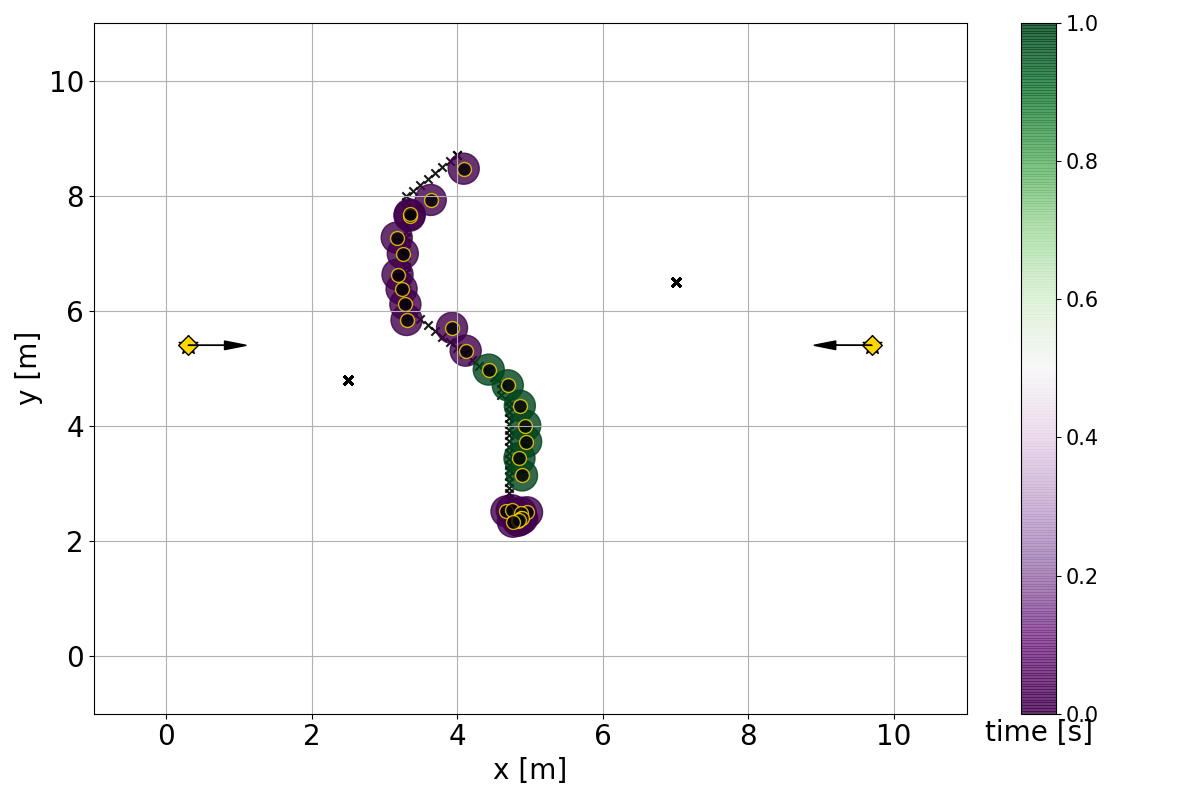
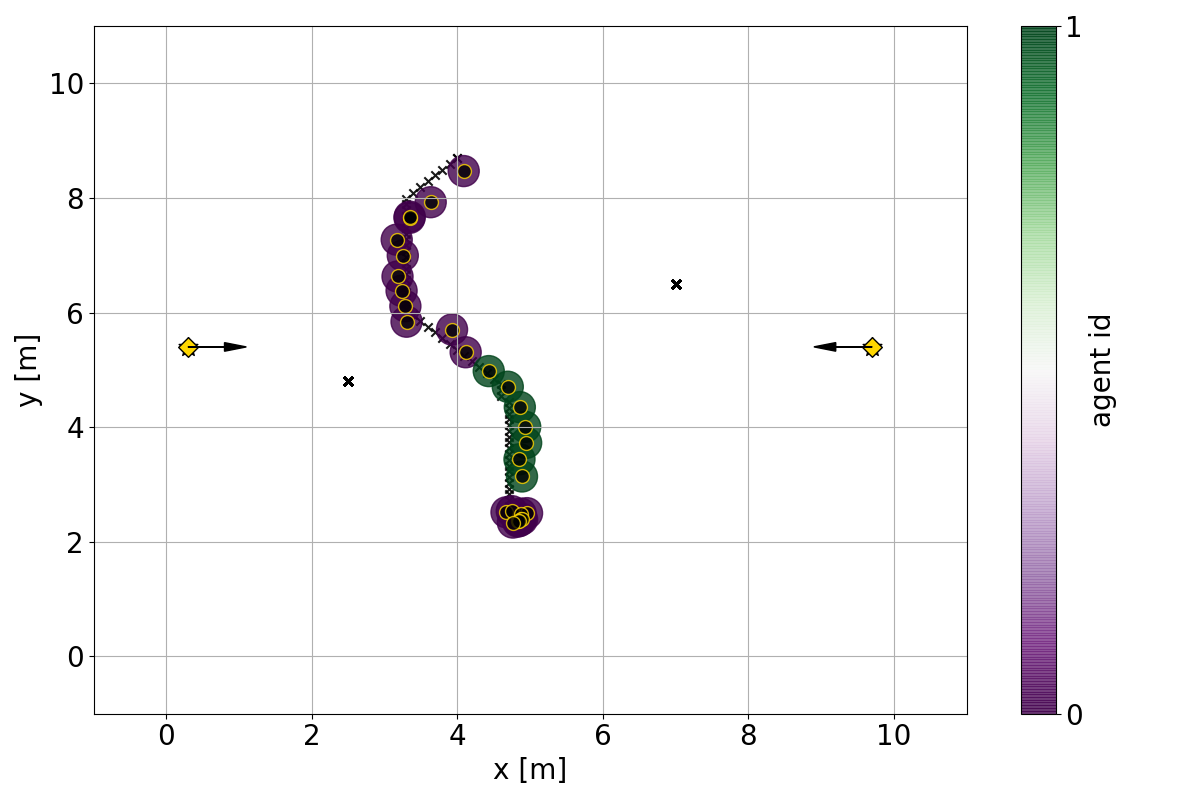
plot fix

diff --git a/to_share/Data_saved-chapitre1-use_case/plot_chap1.py b/to_share/Data_saved-chapitre1-use_case/plot_chap1.py
@@ -66,8 +66,11 @@ for element,color in zip(user_plotter.data_sort_by_target,colors):
        ax1.scatter(element.data_list[7], element.data_list[8],  marker='o',color=color, edgecolors='gold', alpha=0.8,s = 100)
 
 cb=fig1.colorbar(sc1, ax=ax1)
-cb.ax.tick_params(labelsize=15)
-cb.ax.set_xlabel("time [s]", fontsize=20)
+cb.ax.tick_params(labelsize=20)
+cb.ax.set_ylabel("agent id", fontsize=20)
+cb.set_ticks([0,1])
+
+#cb.ax.set_yticklabels(["0", "1"])
 ax1.xaxis.set_tick_params(labelsize=20)
 ax1.yaxis.set_tick_params(labelsize=20)
 ax1.set_xlabel("x [m]", fontsize=20)
